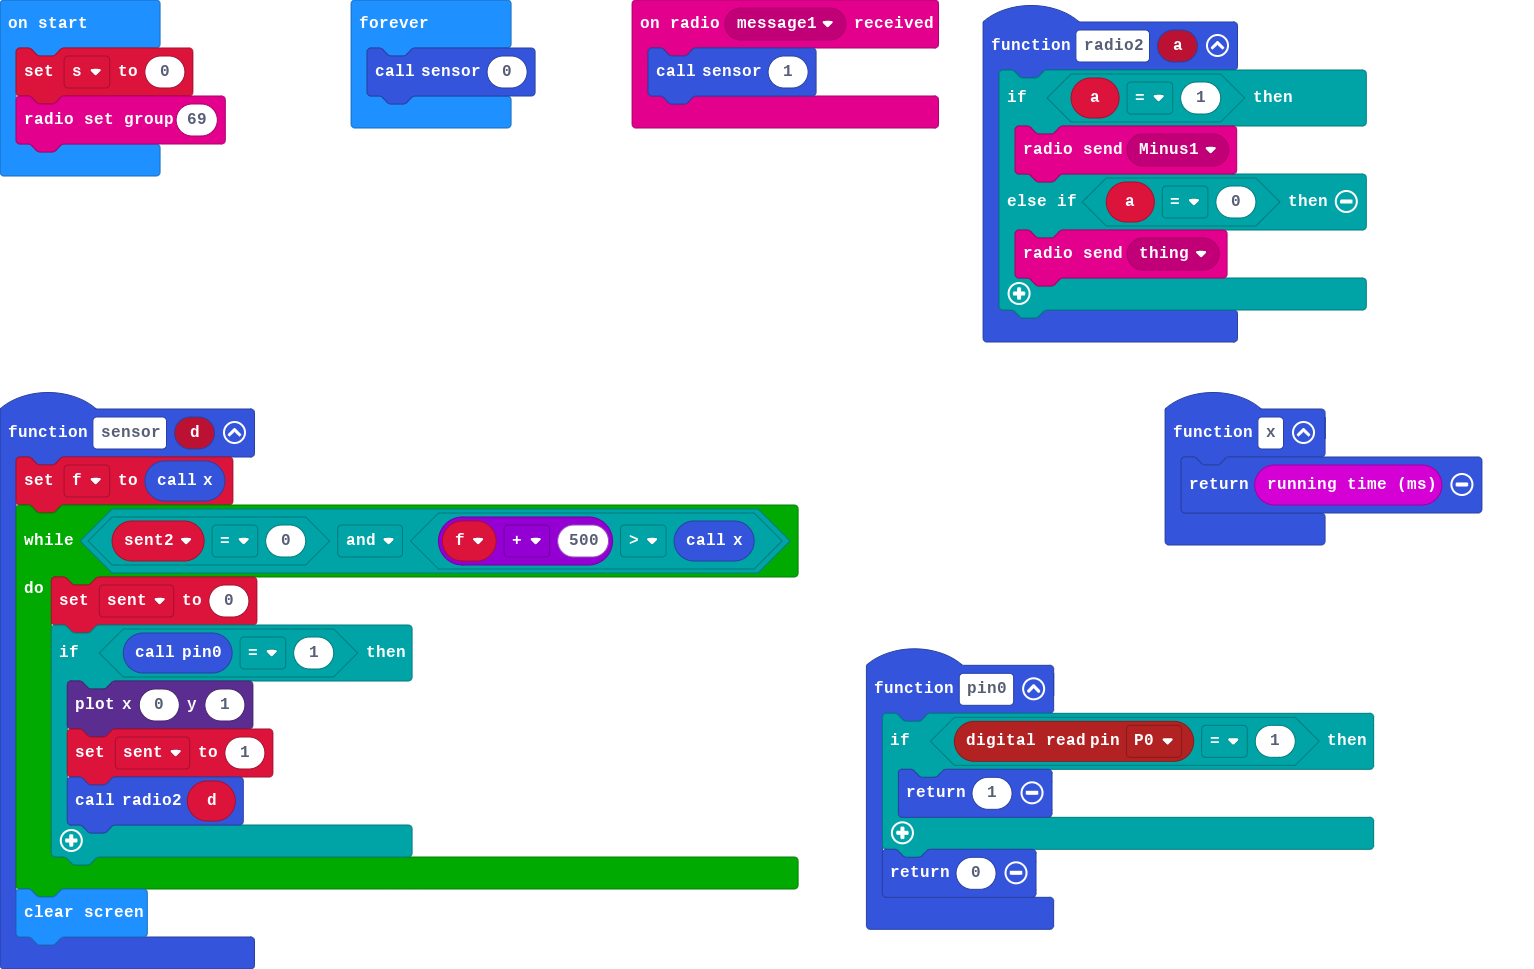
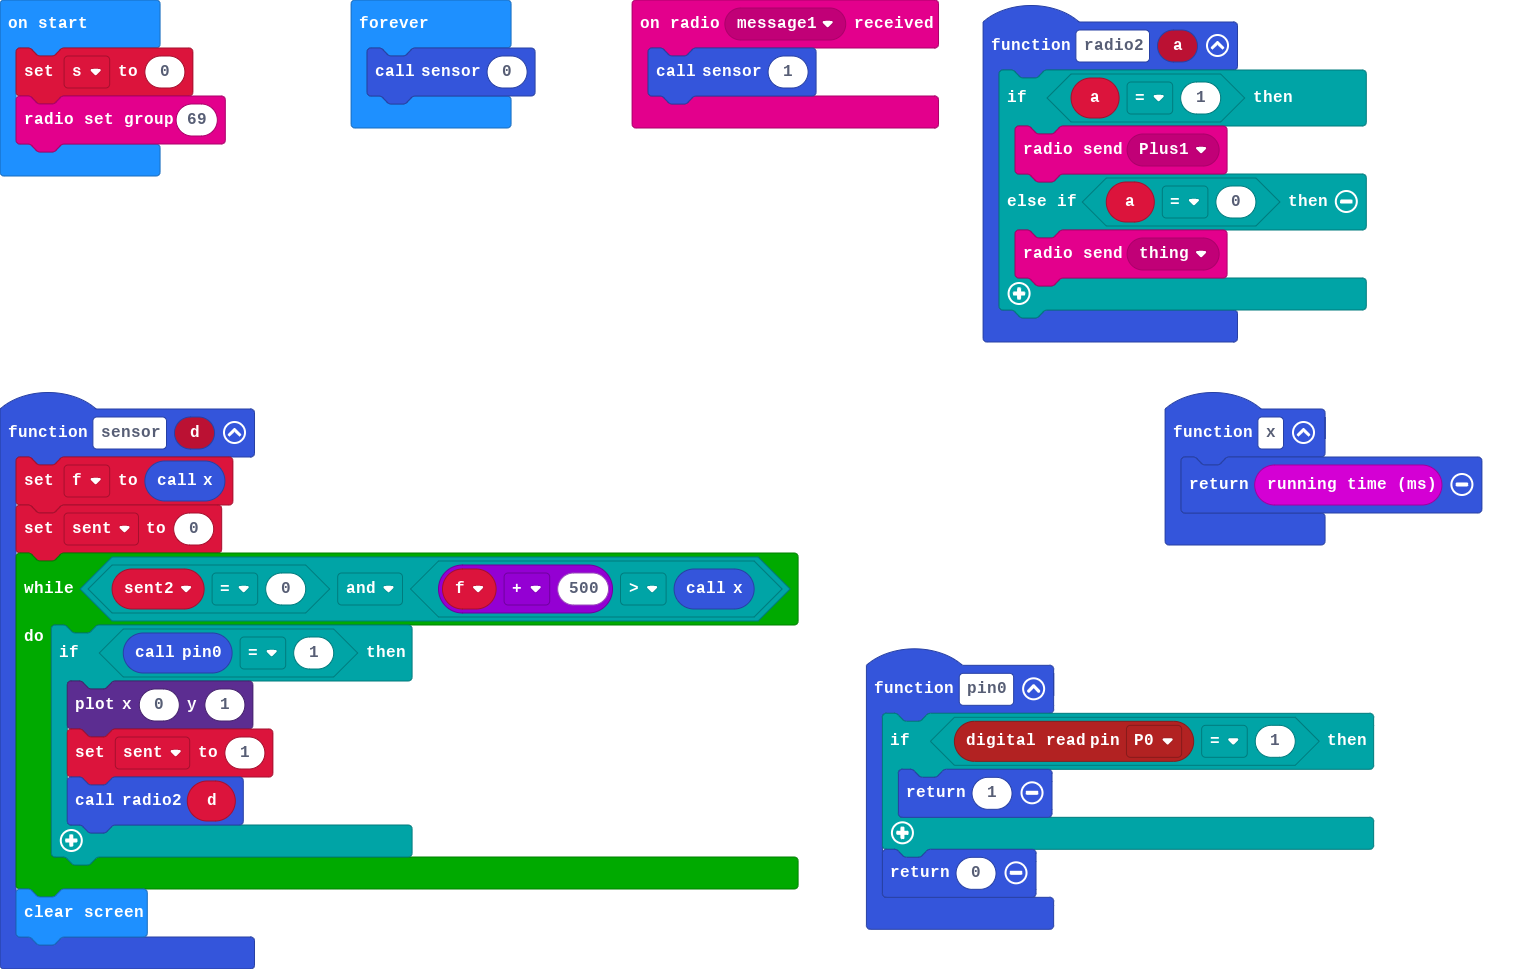
Update main.blocks, main.ts

Changed region(s): [[0.0, 0.4954, 0.5209, 0.6502], [0.766, 0.1238, 0.8272, 0.1858]]

diff --git a/main.ts b/main.ts
@@ -6,7 +6,7 @@ enum RadioMessage {
 }
 function radio2 (a: number) {
     if (a == 1) {
-        radio.sendMessage(RadioMessage.Minus1)
+        radio.sendMessage(RadioMessage.Plus1)
     } else if (a == 0) {
         radio.sendMessage(RadioMessage.thing)
     }
@@ -14,8 +14,8 @@ function radio2 (a: number) {
 function sensor (d: number) {
     let sent2 = 0
     f = x()
+    sent = 0
     while (sent2 == 0 && f + 500 > x()) {
-        sent = 0
         if (pin0() == 1) {
             led.plot(0, 1)
             sent = 1
